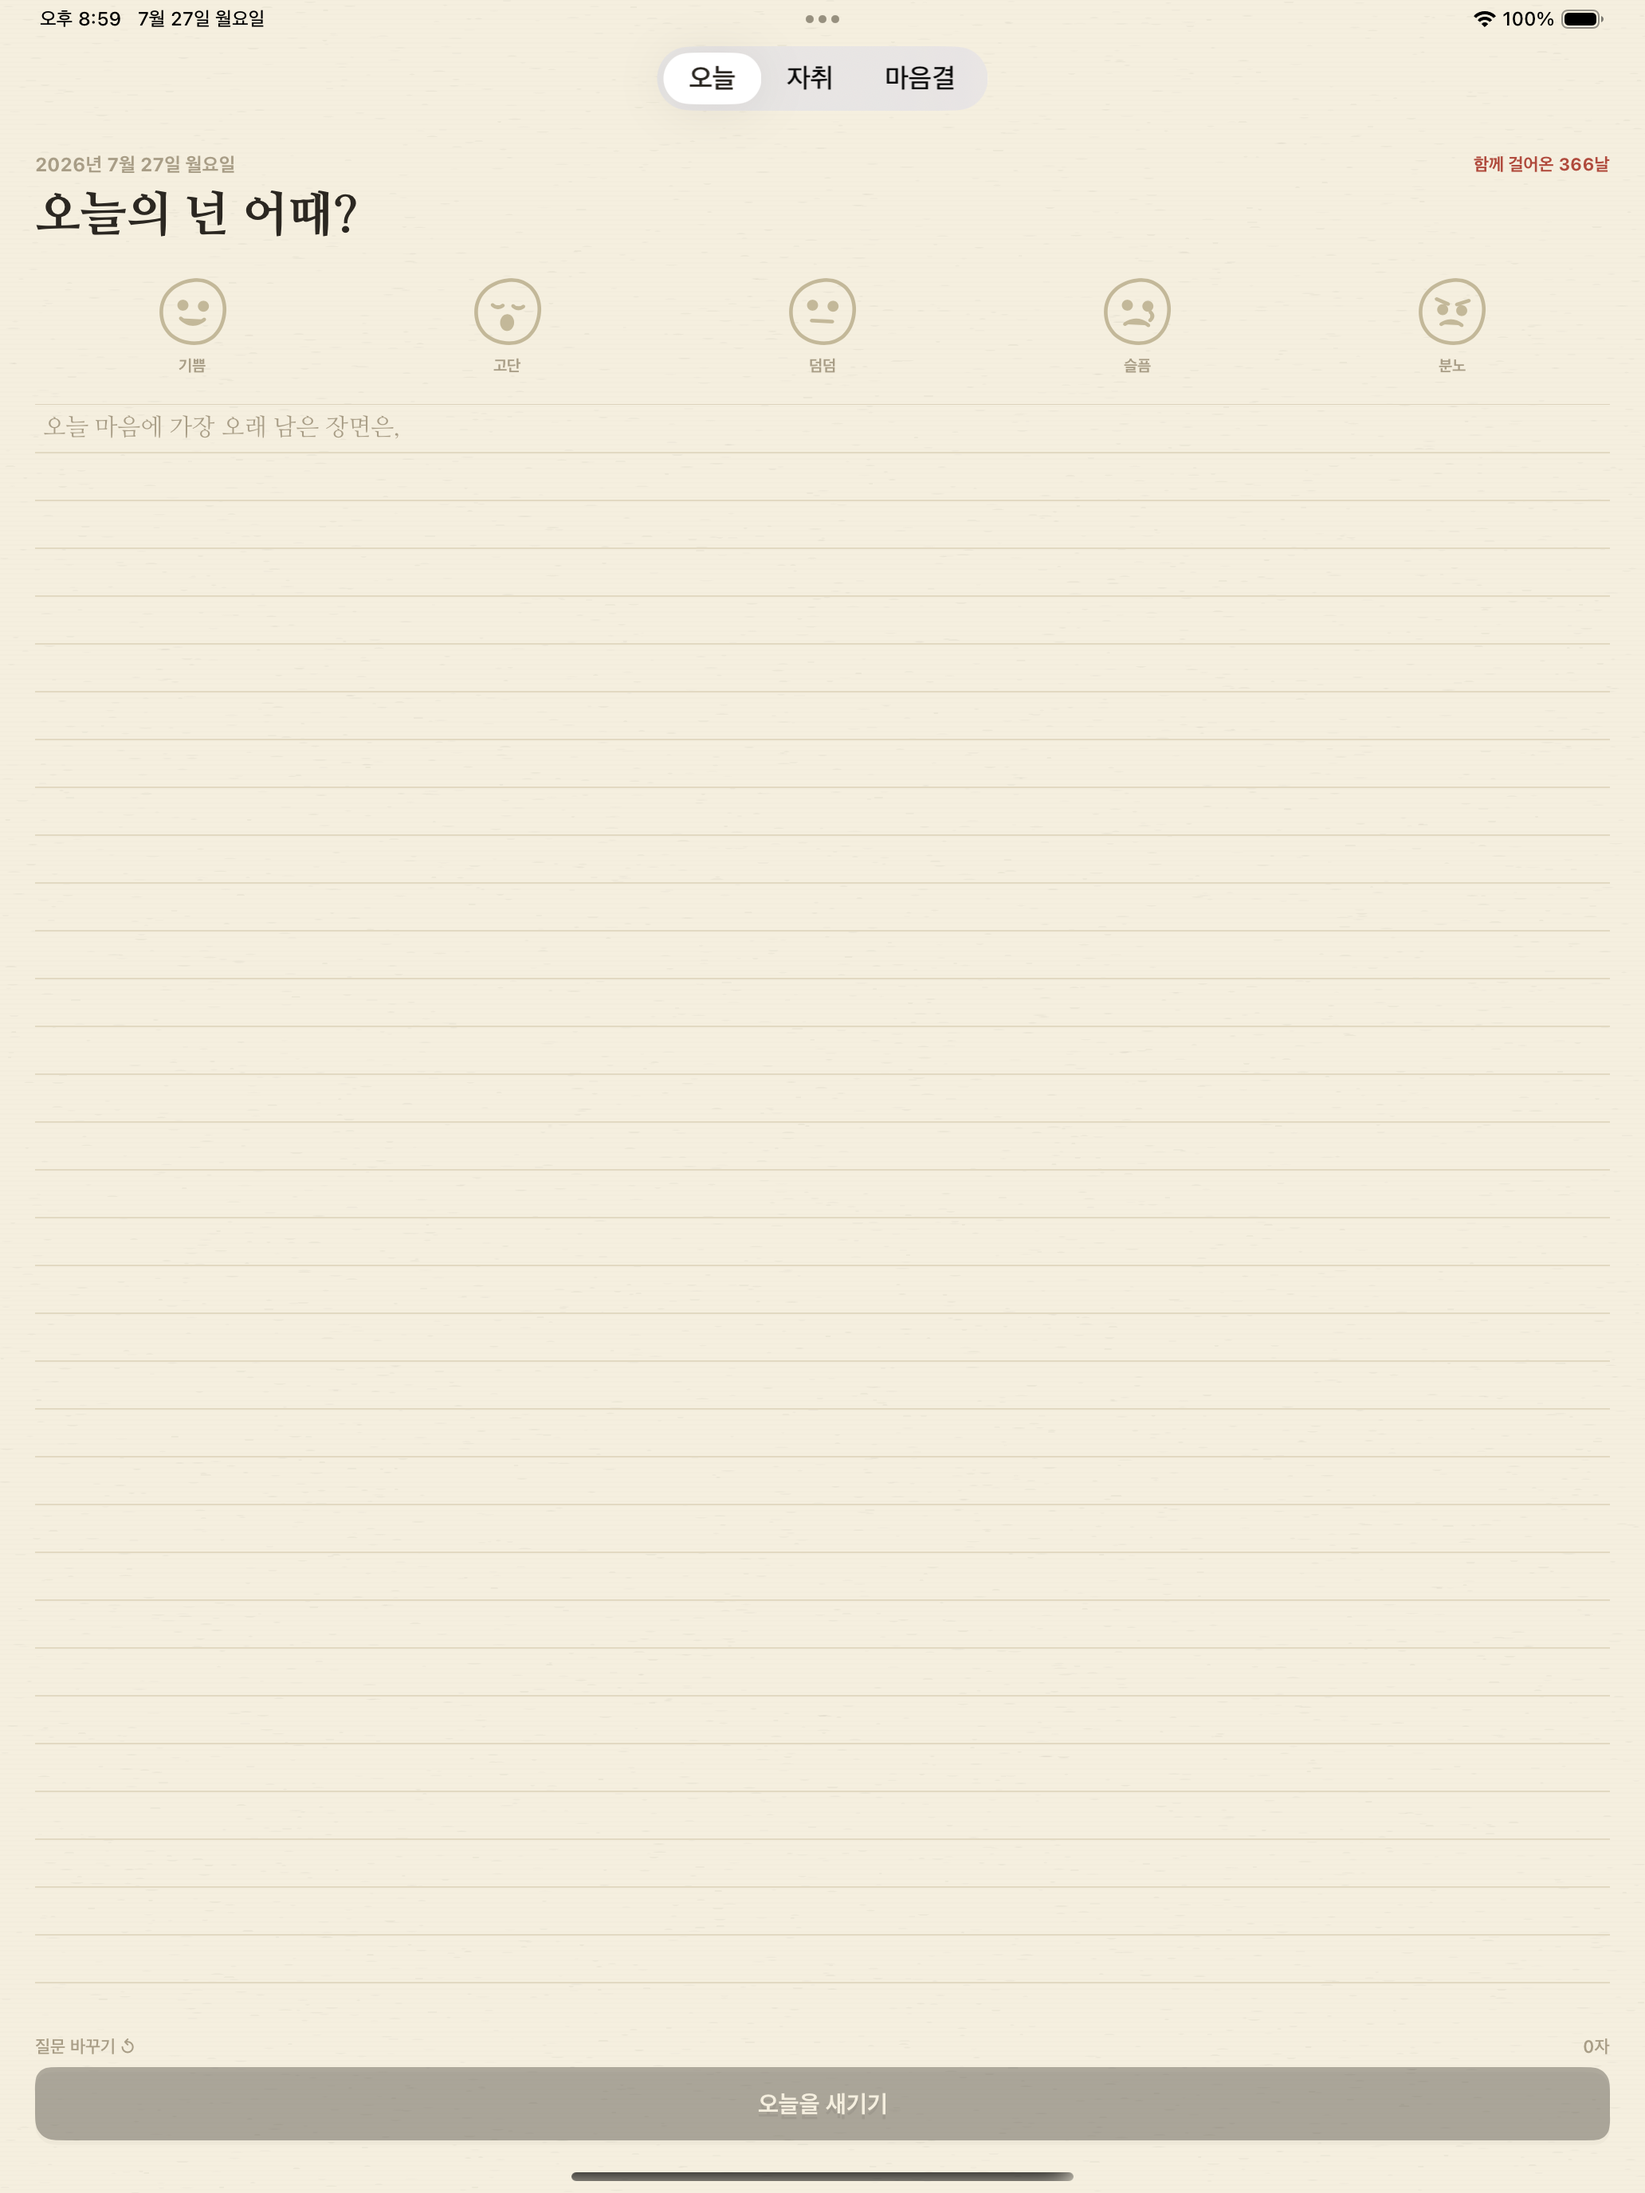
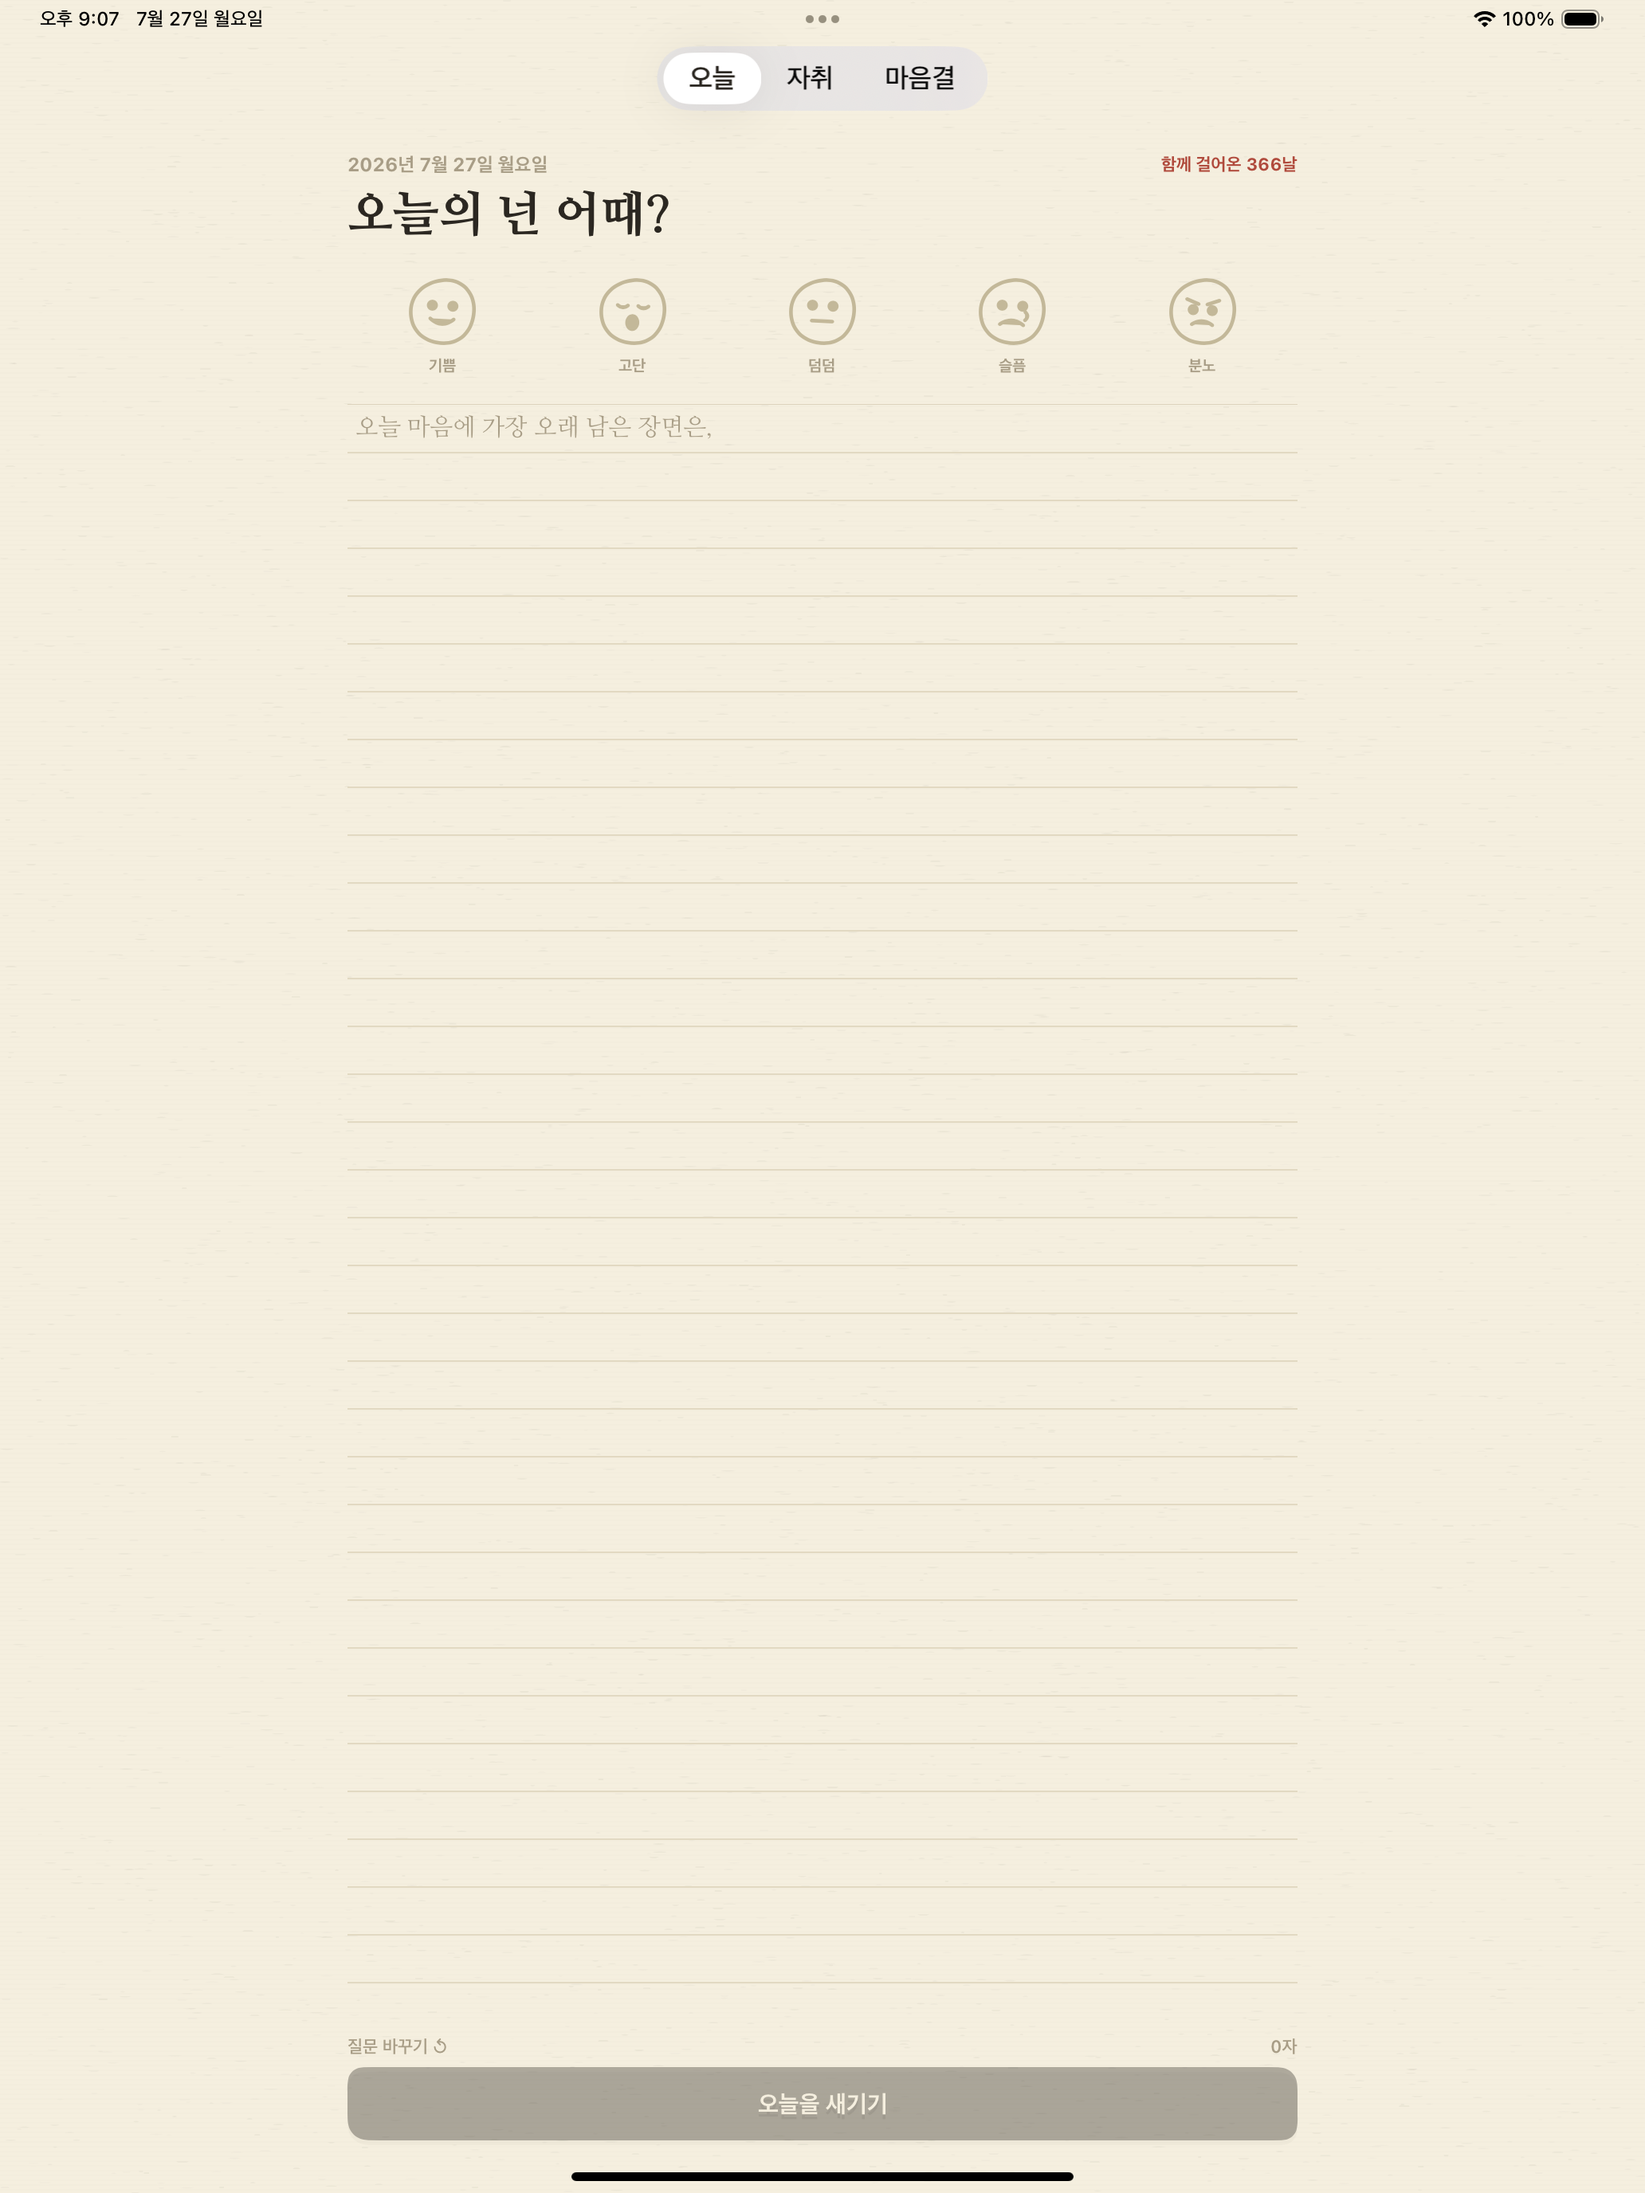
fix : iPad 콘텐츠 폭 제한(640pt 칼럼) + 빌드 3
- 온보딩·오늘·자취·마음결·설정·PIN 화면이 iPad에서 전폭으로
  퍼지던 문제 수정 (contentColumn 수정자, iPhone 영향 없음)
- iPad 스토어 스크린샷 재캡처 (1번 온보딩 오캡처 수정 포함)

diff --git a/ReToU/Views/TodayView.swift b/ReToU/Views/TodayView.swift
@@ -140,6 +140,7 @@ struct TodayView: View {
             .padding(.bottom, 8)
         }
         .padding(.horizontal, 22)
+        .contentColumn()
         .onTapGesture { UIApplication.shared.endEditing() }
     }
 
@@ -235,6 +236,7 @@ struct TodayView: View {
             .padding(.bottom, 14)
         }
         .padding(.horizontal, 22)
+        .contentColumn()
         .sheet(isPresented: $isEditingToday, onDismiss: { refresh() }) {
             if let reflection = todayReflection {
                 ReflectionEditView(reflection: reflection)

diff --git a/ReToU/Views/OnboardingView.swift b/ReToU/Views/OnboardingView.swift
@@ -21,9 +21,9 @@ struct OnboardingView: View {
 
             VStack(spacing: 0) {
                 TabView(selection: $page) {
-                    conceptPage.tag(0)
-                    reminderPage.tag(1)
-                    lockPage.tag(2)
+                    conceptPage.contentColumn(maxWidth: 560).tag(0)
+                    reminderPage.contentColumn(maxWidth: 560).tag(1)
+                    lockPage.contentColumn(maxWidth: 560).tag(2)
                 }
                 .tabViewStyle(.page(indexDisplayMode: .never))
 

diff --git a/ReToU/Utilities/DesignSystem.swift b/ReToU/Utilities/DesignSystem.swift
@@ -191,6 +191,14 @@ struct TornRectShape: Shape {
     }
 }
 
+extension View {
+    /// iPad에서 콘텐츠가 종이 한 장의 폭을 넘지 않도록 제한 (iPhone에는 영향 없음)
+    func contentColumn(maxWidth: CGFloat = 640) -> some View {
+        self.frame(maxWidth: maxWidth)
+            .frame(maxWidth: .infinity)
+    }
+}
+
 /// 결정적 난수 — 같은 시드는 항상 같은 결과 (인장 각도·그레인에 사용)
 struct SeededRandom {
     private var state: UInt64

diff --git a/ReToU/Views/Components/PinPadView.swift b/ReToU/Views/Components/PinPadView.swift
@@ -81,6 +81,7 @@ struct PinPadView: View {
             }
             .padding(.bottom, 40)
         }
+        .contentColumn(maxWidth: 480)
         .frame(maxWidth: .infinity, maxHeight: .infinity)
         .background(AppColor.paper.ignoresSafeArea())
     }

diff --git a/ReToU/Views/RecordsView.swift b/ReToU/Views/RecordsView.swift
@@ -64,6 +64,7 @@ struct RecordsView: View {
                 ledgerList
             }
             .padding(.horizontal, 22)
+            .contentColumn()
         }
         .onAppear { reload() }
         .sheet(item: $selectedReflection) { reflection in

diff --git a/ReToU/Views/SettingsView.swift b/ReToU/Views/SettingsView.swift
@@ -170,6 +170,7 @@ struct SettingsView: View {
                 }
             }
             .padding(.horizontal, 22)
+            .contentColumn()
         }
         .sheet(isPresented: $showPinSetup) {
             PinPadView(mode: .setup) { success in

diff --git a/ReToU/Views/MindView.swift b/ReToU/Views/MindView.swift
@@ -79,6 +79,7 @@ struct MindView: View {
                 Spacer(minLength: 0)
             }
             .padding(.horizontal, 22)
+            .contentColumn()
         }
         .onAppear { currentDate = Date() }
     }
